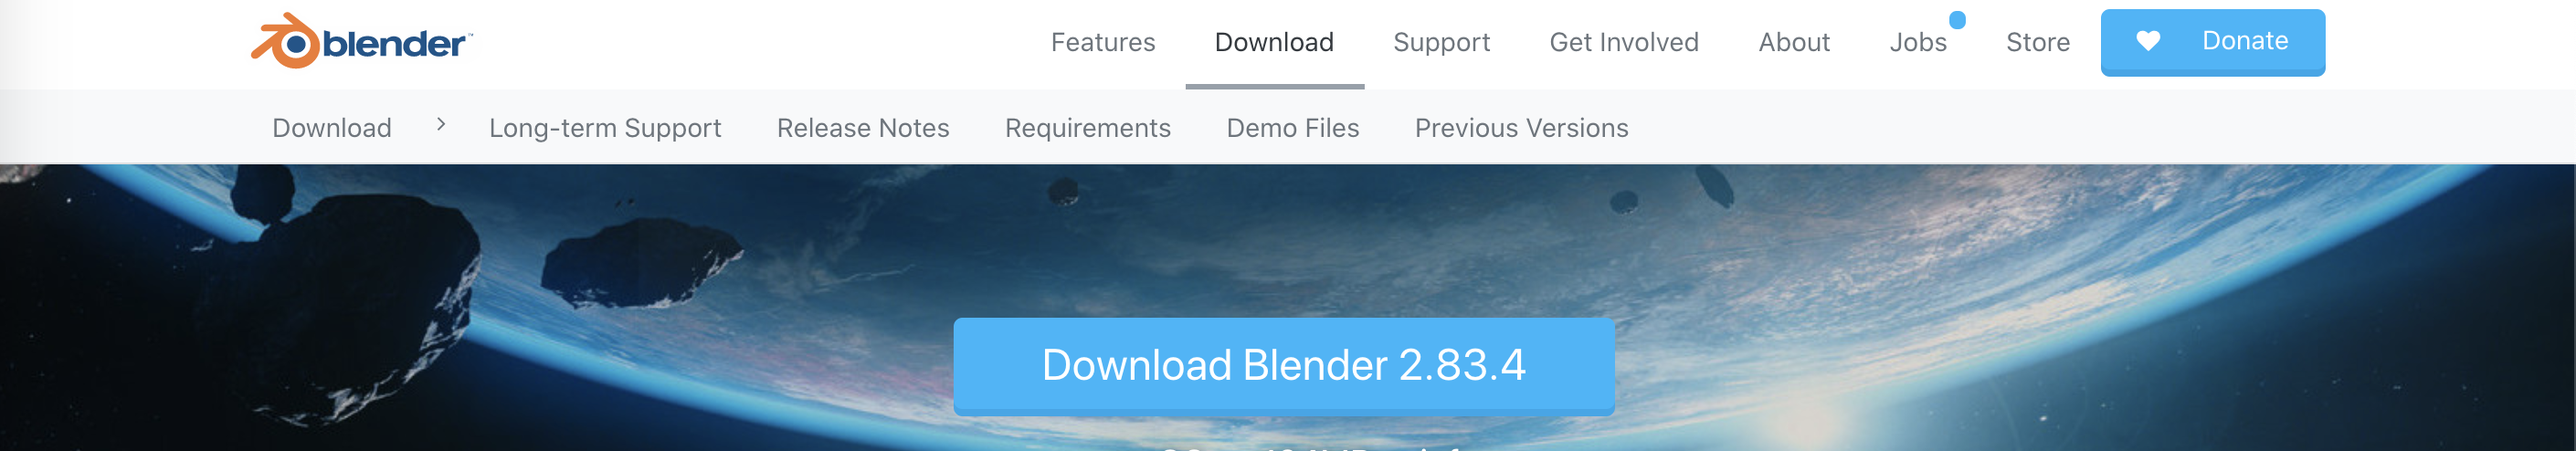
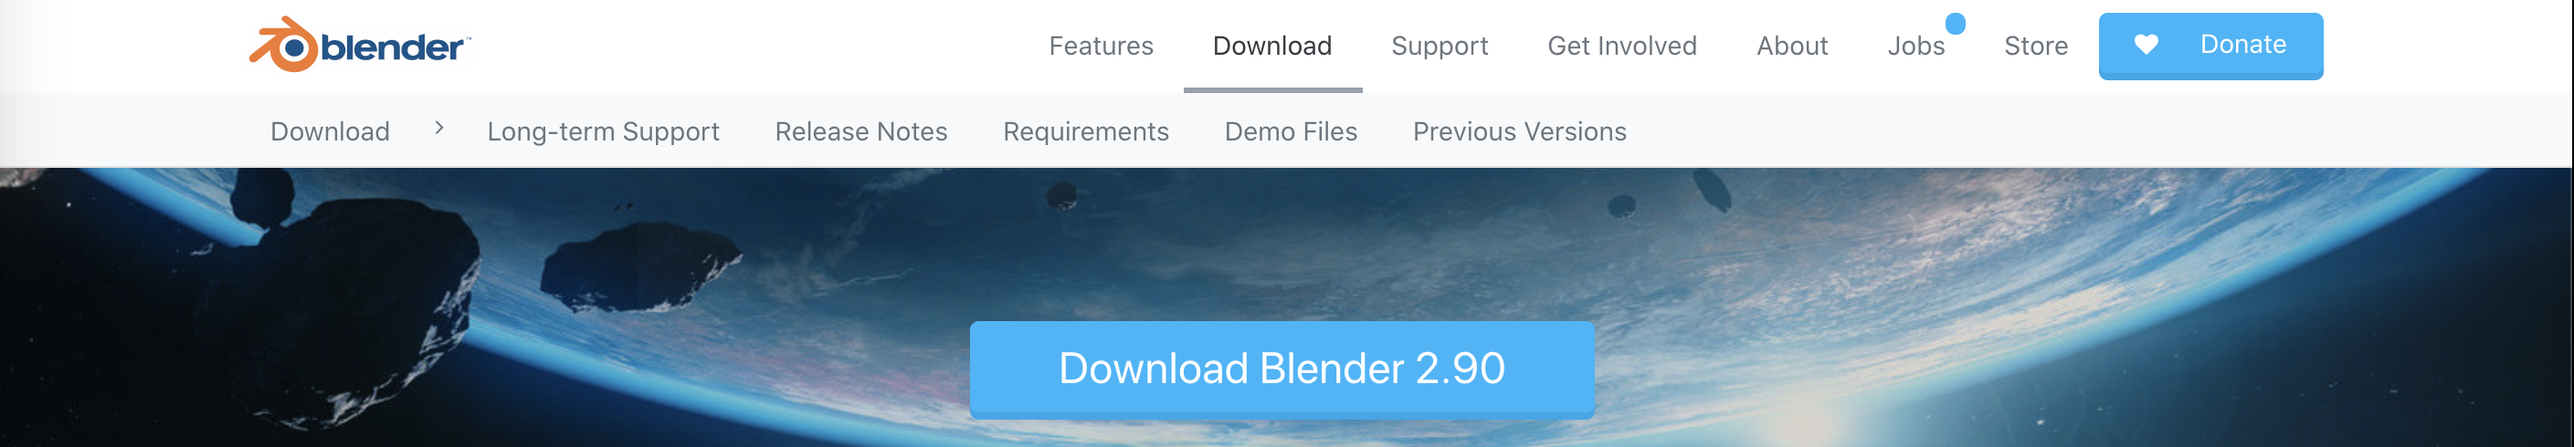
Change the version of Blender & Title

diff --git a/Blender/blender_install.html b/Blender/blender_install.html
@@ -4,7 +4,7 @@
 <head>
     <meta charset="utf-8" />
     <link rel="stylesheet" href="../style.css">
-    <title>2CVR-Blenderのインストール</title>
+    <title>2CVR - Blenderのインストール</title>
     <link rel="icon" href="../favicon.ico" />
     <link
         href="https://fonts.googleapis.com/css2?family=Noto+Sans+JP:wght@100;300;400;500;700;900&family=Roboto:ital,wght@0,100;0,300;0,400;0,500;0,700;0,900;1,100&display=swap"
@@ -29,7 +29,12 @@
 
         <div class="mycontainer">
             <ol>
-                <li><code>Download Blender ○.○○.○</code> をクリックする</li>
+                <li><code>Download Blender 〇〇〇〇</code>
+                    をクリックする
+                    <br>
+                    (普通は最新版で大丈夫ですが、念のため長期的なサポートが欲しい場合は下の<a href="https://www.blender.org/download/lts/"
+                        target="_blank"><code>Looking for long-term support? Get Blender 2.83 LTS</code></a>をクリックして自分のOSに合ったファイルをダウンロードしてください)
+                </li>
                 <li>ディスクイメージ・インストーラ(Blenderをダウンロードするためのファイル)がダウンロードされるので、それを開く</li>
             </ol>
         </div>
@@ -40,7 +45,7 @@
                 <ol>
                     <li>ファイルを開いたらBlenderのアイコンをアプリケーションフォルダにドラッグ＆ドロップ</li>
                     <li>完了</li>
-                    <li>blenderをダブルクリックして開けば使える</li>
+                    <li>Blenderをダブルクリックして開けば使える</li>
                 </ol>
             </div>
         </div>

diff --git a/Unity/unity_install.html b/Unity/unity_install.html
@@ -4,7 +4,7 @@
 <head>
     <meta charset="utf-8" />
     <link rel="stylesheet" href="../style.css">
-    <title>2CVR-Unityのインストール</title>
+    <title>2CVR - Unityのインストール</title>
     <link rel="icon" href="../favicon.ico" />
     <link
         href="https://fonts.googleapis.com/css2?family=Noto+Sans+JP:wght@100;300;400;500;700;900&family=Roboto:ital,wght@0,100;0,300;0,400;0,500;0,700;0,900;1,100&display=swap"

diff --git a/Unity/unity_cardboard.html b/Unity/unity_cardboard.html
@@ -4,7 +4,7 @@
 <head>
     <meta charset="utf-8" />
     <link rel="stylesheet" href="../style.css">
-    <title>2CVR-Unityのインストール</title>
+    <title>2CVR - Cardboard環境構築</title>
     <link rel="icon" href="../favicon.ico" />
     <link
         href="https://fonts.googleapis.com/css2?family=Noto+Sans+JP:wght@100;300;400;500;700;900&family=Roboto:ital,wght@0,100;0,300;0,400;0,500;0,700;0,900;1,100&display=swap"
